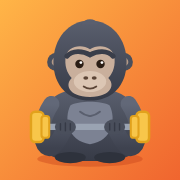
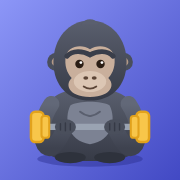
Indigo statt Orange, Timer ohne Flackern, Fokus-Scroll unter der Kopfzeile
- Farbwelt Indigo mit kühleren Grautönen, Icon-Hintergrund angepasst; Deload-Hinweise in Petrol
- Pausen-Timer aktualisiert nur noch die Zeit statt die Knöpfe neu zu zeichnen (Tipps gingen verloren)
- Kopfzeile der Einheit schlanker; aufgeklappte Übung landet sichtbar unter der Kopfzeile
- Tab-Leiste und Timer während der Eingabe ausblenden, Platz für den Timer am Seitenende

Claude-Session: https://claude.ai/code/session_0189nyDg11cEauxF73ZrLpbG

diff --git a/app.css b/app.css
@@ -1,23 +1,23 @@
 /* Gorilla – Layout: eine mobile Spalte (max. 480px), Kopfzeile oben, Tab-Leiste unten, Bottom-Sheets für Eingaben. Basis aus Squirrel. */
 :root{
-  --bg:#FBF8F4; --surface:#FFFFFF; --surface-2:#F3EEE8; --ink:#2A2420; --muted:#776D66; --line:#EAE2DA;
-  --accent:#C9501C; --accent-ink:#FFFFFF; --accent-soft:#FCE7DA; --hero:#FFE9D6; --hero-2:#FFF6EC;
-  --good:#1D8657; --warn:#B8650F; --danger:#D04A3A; --gold:#E2A21C;
-  --scrim:rgba(40,24,12,.32); --shadow:0 12px 28px -12px rgba(150,60,20,.38);
+  --bg:#F8F8FC; --surface:#FFFFFF; --surface-2:#EFF0F7; --ink:#20223A; --muted:#6B6E86; --line:#E3E4EF;
+  --accent:#4A55C9; --accent-ink:#FFFFFF; --accent-soft:#E6E8FB; --hero:#E8EAFE; --hero-2:#F5F6FF;
+  --good:#1D8657; --warn:#B8650F; --danger:#D04A3A; --gold:#E2A21C; --calm:#0E8078;
+  --scrim:rgba(20,22,60,.32); --shadow:0 12px 28px -12px rgba(60,70,190,.38);
   --f-display:"Bricolage Grotesque","Manrope",system-ui,sans-serif;
   --f-body:"Manrope",system-ui,-apple-system,"Segoe UI",Roboto,sans-serif;
   --r:20px;
 }
 @media (prefers-color-scheme: dark){:root:not([data-theme="light"]){
-  --bg:#14110F; --surface:#1E1A17; --surface-2:#2A2420; --ink:#F0E9E3; --muted:#A3978E; --line:#352D28;
-  --accent:#FF9A5C; --accent-ink:#2A1206; --accent-soft:#3D2416; --hero:#3A2416; --hero-2:#251B15;
-  --good:#4CC28A; --warn:#E8A452; --danger:#EF7465; --gold:#F8C64A;
+  --bg:#101119; --surface:#191B26; --surface-2:#232636; --ink:#E8E9F3; --muted:#9A9DB5; --line:#2C2F42;
+  --accent:#8E98FF; --accent-ink:#12143A; --accent-soft:#262A52; --hero:#23264A; --hero-2:#1A1C2C;
+  --good:#4CC28A; --warn:#E8A452; --danger:#EF7465; --gold:#F8C64A; --calm:#4FC7BC;
   --scrim:rgba(0,0,0,.6); --shadow:0 14px 34px -14px rgba(0,0,0,.7); color-scheme:dark;
 }}
 :root[data-theme="dark"]{
-  --bg:#14110F; --surface:#1E1A17; --surface-2:#2A2420; --ink:#F0E9E3; --muted:#A3978E; --line:#352D28;
-  --accent:#FF9A5C; --accent-ink:#2A1206; --accent-soft:#3D2416; --hero:#3A2416; --hero-2:#251B15;
-  --good:#4CC28A; --warn:#E8A452; --danger:#EF7465; --gold:#F8C64A;
+  --bg:#101119; --surface:#191B26; --surface-2:#232636; --ink:#E8E9F3; --muted:#9A9DB5; --line:#2C2F42;
+  --accent:#8E98FF; --accent-ink:#12143A; --accent-soft:#262A52; --hero:#23264A; --hero-2:#1A1C2C;
+  --good:#4CC28A; --warn:#E8A452; --danger:#EF7465; --gold:#F8C64A; --calm:#4FC7BC;
   --scrim:rgba(0,0,0,.6); --shadow:0 14px 34px -14px rgba(0,0,0,.7); color-scheme:dark;
 }
 *{box-sizing:border-box}
@@ -191,7 +191,7 @@ h1 span{color:var(--muted);font-weight:500}
 .row.off{opacity:.5}
 .status{font-size:11.5px;font-weight:700;padding:3px 9px;border-radius:99px;background:var(--accent-soft);color:var(--accent);white-space:nowrap}
 .status.off{background:color-mix(in srgb,var(--warn) 16%,var(--surface));color:var(--warn)}
-.appicon{width:56px;height:56px;border-radius:14px;flex:none;box-shadow:0 4px 12px -4px rgba(150,60,20,.45)}
+.appicon{width:56px;height:56px;border-radius:14px;flex:none;box-shadow:0 4px 12px -4px rgba(60,70,190,.35)}
 .homeprev{display:flex;align-items:center;gap:16px;padding:14px}
 .homeprev p{margin:0;font-size:13px;color:var(--muted)}
 .homeprev b{display:block;color:var(--ink);font-size:15px;margin-bottom:2px}
@@ -277,9 +277,9 @@ label.f{display:grid;gap:6px;font-size:12.5px;font-weight:700;color:var(--muted)
 .preview b{color:var(--ink)}
 .csv{font-family:ui-monospace,Menlo,Consolas,monospace;font-size:16px;height:260px;white-space:pre;overflow:auto}
 
-.toast{position:fixed;z-index:60;left:50%;top:calc(12px + env(safe-area-inset-top,0px));transform:translate(-50%,-20px);opacity:0;pointer-events:none;background:#2E241E;color:#fff;border-radius:16px;padding:10px 10px 10px 16px;display:flex;align-items:center;gap:12px;font-weight:600;font-size:14px;transition:all .2s;width:max-content;max-width:calc(100% - 32px);box-shadow:var(--shadow)}
+.toast{position:fixed;z-index:60;left:50%;top:calc(12px + env(safe-area-inset-top,0px));transform:translate(-50%,-20px);opacity:0;pointer-events:none;background:#22243A;color:#fff;border-radius:16px;padding:10px 10px 10px 16px;display:flex;align-items:center;gap:12px;font-weight:600;font-size:14px;transition:all .2s;width:max-content;max-width:calc(100% - 32px);box-shadow:var(--shadow)}
 .toast.show{opacity:1;transform:translate(-50%,0);pointer-events:auto}
-.toast button{font-weight:800;color:#FFB98A;padding:6px 8px;border-radius:8px;white-space:nowrap}
+.toast button{font-weight:800;color:#B9C0FF;padding:6px 8px;border-radius:8px;white-space:nowrap}
 .demo-note{font-size:12px;color:var(--muted);text-align:center;margin-top:28px}
 @media (prefers-reduced-motion: reduce){*{transition:none!important;animation:none!important}}
 
@@ -316,7 +316,7 @@ form.connect{display:grid;gap:12px;padding:14px}
 .wd.on i{background:var(--accent)}
 .wd.today small{color:var(--accent)}
 .wd.today i{box-shadow:inset 0 0 0 1.5px var(--accent)}
-.dl-note{display:flex;gap:8px;align-items:flex-start;margin:0;font-size:13px;font-weight:600;background:color-mix(in srgb,#5867D6 12%,var(--surface));color:color-mix(in srgb,#5867D6 80%,var(--ink));border-radius:12px;padding:9px 12px}
+.dl-note{display:flex;gap:8px;align-items:flex-start;margin:0;font-size:13px;font-weight:600;background:color-mix(in srgb,var(--calm) 12%,var(--surface));color:color-mix(in srgb,var(--calm) 80%,var(--ink));border-radius:12px;padding:9px 12px}
 .dl-note .i{width:17px;height:17px;margin-top:1px}
 .dl-note.soft{background:var(--surface);color:var(--muted)}
 .app>.dl-note{margin-top:10px}
@@ -342,7 +342,7 @@ form.connect{display:grid;gap:12px;padding:14px}
 .ses-h{display:flex;align-items:flex-end;justify-content:space-between;gap:10px;margin-top:6px}
 .ses-h h1{font-size:26px;min-width:0}
 .ses-meta{display:grid;justify-items:end;gap:4px;font-size:12.5px;font-weight:700;color:var(--muted);white-space:nowrap}
-.pill.dl{background:color-mix(in srgb,#5867D6 16%,var(--surface));color:color-mix(in srgb,#5867D6 85%,var(--ink))}
+.pill.dl{background:color-mix(in srgb,var(--calm) 16%,var(--surface));color:color-mix(in srgb,var(--calm) 85%,var(--ink))}
 .pill.alt{display:inline-flex;align-items:center;gap:3px;vertical-align:2px;background:var(--accent-soft);color:var(--accent)}
 .pill.alt .i{width:12px;height:12px}
 .prog{height:5px;border-radius:99px;background:var(--surface-2);overflow:hidden;margin-top:10px}
@@ -374,7 +374,7 @@ form.connect{display:grid;gap:12px;padding:14px}
 .adv{display:flex;gap:8px;align-items:flex-start;font-size:13px;font-weight:600;color:var(--muted)}
 .adv .i{width:16px;height:16px;margin-top:1px;flex:none}
 .adv.up{color:var(--good)}
-.adv.deload{color:color-mix(in srgb,#5867D6 85%,var(--ink))}
+.adv.deload{color:color-mix(in srgb,var(--calm) 85%,var(--ink))}
 .sets{display:grid;gap:6px}
 .set{display:grid;grid-template-columns:var(--cols);gap:6px;align-items:center}
 .set.head span{font-size:11px;font-weight:800;letter-spacing:.06em;text-transform:uppercase;color:var(--muted);text-align:center}
@@ -402,8 +402,8 @@ form.connect{display:grid;gap:12px;padding:14px}
 
 /* Pausen-Timer */
 .timer{position:fixed;left:0;right:0;z-index:25;bottom:calc(66px + env(safe-area-inset-bottom,0px));display:flex;justify-content:center;pointer-events:none;padding:0 16px}
-.timer-in{pointer-events:auto;display:flex;align-items:center;gap:10px;background:#2E241E;color:#fff;border-radius:18px;padding:8px 8px 8px 14px;box-shadow:var(--shadow);position:relative;overflow:hidden;max-width:420px;width:100%}
-.timer-in::before{content:"";position:absolute;inset:auto 0 0 0;height:3px;width:var(--p);background:#FF9A5C}
+.timer-in{pointer-events:auto;display:flex;align-items:center;gap:10px;background:#22243A;color:#fff;border-radius:18px;padding:8px 8px 8px 14px;box-shadow:var(--shadow);position:relative;overflow:hidden;max-width:420px;width:100%}
+.timer-in::before{content:"";position:absolute;inset:auto 0 0 0;height:3px;width:var(--p);background:#8E98FF}
 .timer-in b{font-family:var(--f-display);font-size:22px}
 .timer-in span{flex:1;font-size:13px;font-weight:600;opacity:.8}
 .timer-in button{height:36px;padding:0 12px;border-radius:11px;background:rgba(255,255,255,.12);font-weight:800;font-size:13px;color:#fff;display:grid;place-items:center}
@@ -461,7 +461,7 @@ button.wstrip{width:100%;text-align:inherit;padding:0}
 .exrow.skip .exst{background:color-mix(in srgb,var(--warn) 16%,var(--surface));color:var(--warn)}
 .exrow.skip b{text-decoration:line-through;color:var(--muted)}
 .exrow.muted{opacity:.6}
-.ex.open{border:1.5px solid color-mix(in srgb,var(--accent) 45%,var(--line));box-shadow:0 10px 24px -16px rgba(150,60,20,.45);margin-top:10px}
+.ex.open{border:1.5px solid color-mix(in srgb,var(--accent) 45%,var(--line));box-shadow:0 10px 24px -16px rgba(60,70,190,.35);margin-top:10px}
 button.ex-t{text-align:left;padding:0;flex:1}
 .lastline{display:flex;flex-wrap:wrap;align-items:center;gap:6px 10px;font-size:13px;font-weight:700;font-variant-numeric:tabular-nums}
 .lastline .lbl{font-size:11px}
@@ -506,3 +506,13 @@ p.last{margin:0}
 .kpis .kpi{background:var(--surface);border:1px solid var(--line);border-radius:16px;padding:12px;display:grid;gap:2px}
 .kpis .kpi b{font-family:var(--f-display);font-size:24px}
 .kpis .kpi span{font-size:12px;color:var(--muted);font-weight:600}
+
+/* v1.2: Feinschliff */
+.timer-in{--p:0%}
+body.has-timer .app{padding-bottom:190px}
+body.kb .tabbar,body.kb .timer{display:none}
+.ses-top{padding-bottom:6px}
+.ses-top .prog{margin-top:8px}
+.ses-h{margin-top:4px}
+.seg.loc{margin-top:12px}
+.ex.open,.exrow{scroll-margin-top:90px}

diff --git a/app.js b/app.js
@@ -364,10 +364,10 @@ function renderSes(v){
   const head=`<header class="top ses-top">
     <div class="top-row"><button class="txt-btn back" data-act="closeSes">${I.left}Fertig</button><span data-slot="status">${statusPill()}</span>
       <label class="chip date">${I.cal}<span>${relDate(s.date)}</span><input type="date" id="sesDate" value="${esc(s.date)}" max="${TODAY_ISO}" aria-label="Datum der Einheit"></label></div>
-    <div class="ses-h"><h1>${esc(s.day)}</h1><div class="ses-meta"><span class="pill ${wi.deload?'dl':''}">${wi.deload?'Deload-Woche':`Woche ${wi.pos}/${wi.cyc}`}</span>${s.st==='skip'?'':`<span id="sesProg">${c.d+c.k}/${total} Übungen</span>`}</div></div>
-    ${s.st==='skip'?'':`<div class="prog"><i id="sesBar" style="width:${total?(c.d+c.k)/total*100:0}%"></i></div>
-    <div class="seg loc" role="group" aria-label="Ort"><button data-act="loc" data-v="" class="${home?'':'on'}" aria-pressed="${!home}">${I.dumbbell} Gym</button><button data-act="loc" data-v="home" class="${home?'on':''}" aria-pressed="${home}">${I.home} Zuhause</button></div>`}
+    ${s.st==='skip'?'':`<div class="prog"><i id="sesBar" style="width:${total?(c.d+c.k)/total*100:0}%"></i></div>`}
   </header>
+    <div class="ses-h"><h1>${esc(s.day)}</h1><div class="ses-meta"><span class="pill ${wi.deload?'dl':''}">${wi.deload?'Deload-Woche':`Woche ${wi.pos}/${wi.cyc}`}</span>${s.st==='skip'?'':`<span id="sesProg">${c.d+c.k}/${total} Übungen</span>`}</div></div>
+    ${s.st==='skip'?'':`<div class="seg loc" role="group" aria-label="Ort"><button data-act="loc" data-v="" class="${home?'':'on'}" aria-pressed="${!home}">${I.dumbbell} Gym</button><button data-act="loc" data-v="home" class="${home?'on':''}" aria-pressed="${home}">${I.home} Zuhause</button></div>`}
   ${s.date!==TODAY_ISO?`<p class="backfill-note">${I.cal}<span>Du trägst ein Training vom <b>${shortDate(s.date)}</b> ein.</span></p>`:''}`;
   if(s.st==='skip'){
     v.innerHTML=head+`<section class="card skipcard"><div class="skipbig">${I.skip}</div><h2>Training übersprungen</h2>
@@ -464,7 +464,8 @@ function exCard(x,i){
 function rerenderEx(i){const el=$('#ex'+i);if(el)el.outerHTML=exCard(CUR.ex[i],i);updProg()}
 function rerenderList(){const el=$('#exList');if(el)el.innerHTML=CUR.ex.map((x,i)=>exCard(x,i)).join('');updProg()}
 function updProg(){const c=exCount(CUR),t=CUR.ex.length;const a=$('#sesProg'),b=$('#sesBar');if(a)a.textContent=`${c.d+c.k}/${t} Übungen`;if(b)b.style.width=(t?(c.d+c.k)/t*100:0)+'%'}
-function expand(i){UI.exp=i;UI.altPick=null;rerenderList();const el=$('#ex'+i);if(el)setTimeout(()=>el.scrollIntoView({behavior:'smooth',block:'start'}),30)}
+function scrollToEl(el){if(!el)return;const h=($('.top')||{}).offsetHeight||0;const y=el.getBoundingClientRect().top+window.scrollY-h-8;window.scrollTo({top:Math.max(0,y),behavior:'smooth'})}
+function expand(i){UI.exp=i;UI.altPick=null;rerenderList();const el=$('#ex'+i);if(el)setTimeout(()=>scrollToEl(el),30)}
 
 /* Pausen-Timer */
 let TM=null,tmI=null;
@@ -472,12 +473,13 @@ function startTimer(sec){
   if(!sec)return;
   TM={end:Date.now()+sec*1000,total:sec};clearInterval(tmI);tmI=setInterval(tick,250);tick();
 }
-function stopTimer(){TM=null;clearInterval(tmI);const el=$('#timer');el.hidden=true;el.innerHTML=''}
+function stopTimer(){TM=null;clearInterval(tmI);const el=$('#timer');el.hidden=true;el.innerHTML='';document.body.classList.remove('has-timer')}
 function tick(){
-  const el=$('#timer');if(!TM){el.hidden=true;return}
+  const el=$('#timer');if(!TM){el.hidden=true;document.body.classList.remove('has-timer');return}
   const left=Math.max(0,Math.round((TM.end-Date.now())/1000));
-  el.hidden=false;
-  el.innerHTML=`<div class="timer-in" style="--p:${(1-left/TM.total)*100}%">${I.timer}<b class="num">${Math.floor(left/60)}:${pad(left%60)}</b><span>Pause</span><button data-act="tPlus">+30 s</button><button data-act="tStop" aria-label="Pause beenden">${I.x}</button></div>`;
+  if(el.hidden||!el.firstChild){el.innerHTML=`<div class="timer-in">${I.timer}<b class="num" id="tLeft"></b><span>Pause</span><button data-act="tPlus">+30 s</button><button data-act="tStop" aria-label="Pause beenden">${I.x}</button></div>`;el.hidden=false;document.body.classList.add('has-timer')}
+  const txt=`${Math.floor(left/60)}:${pad(left%60)}`;const t=$('#tLeft');if(t.textContent!==txt)t.textContent=txt;
+  el.firstChild.style.setProperty('--p',((1-left/TM.total)*100).toFixed(1)+'%');
   if(left<=0){stopTimer();try{navigator.vibrate&&navigator.vibrate([200,100,200])}catch(e){}beep();toast('Pause vorbei. Nächster Satz!')}
 }
 let AC=null;
@@ -701,7 +703,7 @@ function themeSaved(){try{const t=localStorage.getItem('gorilla-theme');return t
 const themeIsDark=()=>{const t=themeSaved();return t?t==='dark':darkMQ.matches};
 function applyTheme(){
   const t=themeSaved();if(t)document.documentElement.setAttribute('data-theme',t);else document.documentElement.removeAttribute('data-theme');
-  const col=themeIsDark()?'#14110F':'#FBF8F4';document.querySelectorAll('meta[name="theme-color"]').forEach(m=>{m.setAttribute('content',col);m.removeAttribute('media')});
+  const col=themeIsDark()?'#101119':'#F8F8FC';document.querySelectorAll('meta[name="theme-color"]').forEach(m=>{m.setAttribute('content',col);m.removeAttribute('media')});
 }
 darkMQ.addEventListener?.('change',()=>{if(!themeSaved()){applyTheme();if(S.view==='set')refresh()}});
 
@@ -839,6 +841,8 @@ document.addEventListener('submit',async e=>{
 });
 
 document.addEventListener('gesturestart',e=>e.preventDefault());
+document.addEventListener('focusin',e=>{if(e.target.matches&&e.target.matches('input:not([type=radio]):not([type=date]),textarea'))document.body.classList.add('kb')});
+document.addEventListener('focusout',()=>setTimeout(()=>{const a=document.activeElement;if(!(a&&a.matches&&a.matches('input,textarea')))document.body.classList.remove('kb')},60));
 document.addEventListener('touchmove',e=>{if(e.touches.length>1)e.preventDefault()},{passive:false});
 window.addEventListener('online',()=>{updateStatus();scheduleSync(300)});
 window.addEventListener('offline',updateStatus);

diff --git a/index.html b/index.html
@@ -5,8 +5,8 @@
 <meta name="viewport" content="width=device-width,initial-scale=1,maximum-scale=1,user-scalable=no,viewport-fit=cover">
 <title>Gorilla</title>
 <meta name="description" content="Krafttraining protokollieren – offline-fähig, mit Google Sheet als Datenbasis.">
-<meta name="theme-color" content="#FBF8F4" media="(prefers-color-scheme: light)">
-<meta name="theme-color" content="#14110F" media="(prefers-color-scheme: dark)">
+<meta name="theme-color" content="#F8F8FC" media="(prefers-color-scheme: light)">
+<meta name="theme-color" content="#101119" media="(prefers-color-scheme: dark)">
 <meta name="apple-mobile-web-app-capable" content="yes">
 <meta name="mobile-web-app-capable" content="yes">
 <meta name="apple-mobile-web-app-status-bar-style" content="default">
@@ -19,7 +19,7 @@
 <link rel="preconnect" href="https://fonts.gstatic.com" crossorigin>
 <link rel="stylesheet" href="https://fonts.googleapis.com/css2?family=Bricolage+Grotesque:opsz,wght@12..96,500;12..96,700&family=Manrope:wght@400;500;600;700;800&display=swap">
 <link rel="stylesheet" href="app.css">
-<script>window.GORILLA_VERSION='1.1.0';
+<script>window.GORILLA_VERSION='1.2.0';
 /* Darstellung vor dem ersten Zeichnen setzen, damit nichts aufblitzt */
 try{var t=localStorage.getItem('gorilla-theme');if(t==='dark'||t==='light')document.documentElement.setAttribute('data-theme',t)}catch(e){}</script>
 </head>

diff --git a/sw.js b/sw.js
@@ -1,6 +1,6 @@
 /* Gorilla Service Worker: App-Dateien kommen sofort aus dem Cache (auch offline),
  * Updates werden im Hintergrund geladen und beim nächsten Start aktiv. */
-const VERSION = 'gorilla-1.1.0';
+const VERSION = 'gorilla-1.2.0';
 const SHELL = ['./', 'index.html', 'app.css', 'app.js', 'manifest.webmanifest',
   'icons/icon.svg', 'icons/icon-180.png', 'icons/icon-192.png', 'icons/icon-512.png', 'icons/icon-maskable-512.png', 'icons/favicon-32.png'];
 const FONTS = 'gorilla-fonts';
